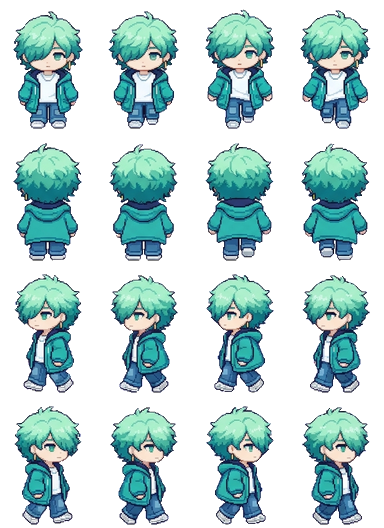
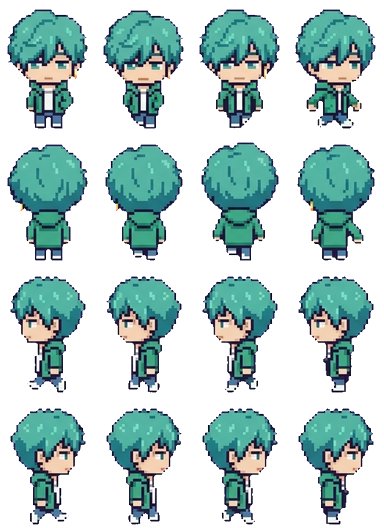
Redraw Ugo Kanato in the shared art style
Claude-Session: https://claude.ai/code/session_01KaPsBYLrtbRfMYNG2xeBCK

diff --git a/docs/app.js b/docs/app.js
@@ -75,7 +75,7 @@ function spr(cat, k, col, sc) {
   return `<div class="clip" style="width:${it[2] * sc}px;height:${it[3] * sc}px;POS"><img class="px" src="assets/decor/${cat}.png" alt="" style="width:${S.sw * sc}px;height:${S.sh * sc}px;margin-left:${-col * S.cw * sc}px;margin-top:${-i * S.ch * sc}px"></div>`;
 }
 const icon = (k, sz) => `<span class="itm" style="width:${sz}px;height:${sz}px"><img class="px" src="assets/ui/items.png" alt="" style="width:${IT.length * sz}px;height:${sz}px;margin-left:${-ITM[k].i * sz}px"></span>`;
-const face = (id, w) => { const s = w / 96; return `<img class="px" src="assets/ch/${id}.webp?v=36" alt="" style="position:absolute;width:${384 * s}px;height:${528 * s}px;left:${-(96 * s - w) / 2}px;top:0;max-width:none">`; };
+const face = (id, w) => { const s = w / 96; return `<img class="px" src="assets/ch/${id}.webp?v=37" alt="" style="position:absolute;width:${384 * s}px;height:${528 * s}px;left:${-(96 * s - w) / 2}px;top:0;max-width:none">`; };
 
 // ---------- 저장 ----------
 let fb = null, user = null, S = null, saveT = null;
@@ -143,7 +143,7 @@ function sleepHTML(id, r, dy) {
   const pos = r.a && r.a[0] === 'bed' ? 'left:3%;bottom:20%' : r.b && r.b[0] === 'bed' ? 'right:3%;bottom:20%' : 'left:calc(50% - 44px);bottom:6%';
   const s = 36 / 96;
   return `<div style="position:absolute;width:88px;height:56px;${pos};z-index:${dy ? 4 : 5};${dy ? `transform:translate(12px,${dy}px)` : ''}"><div style="position:absolute;inset:0;filter:brightness(.22)">
-    <div style="position:absolute;left:11px;top:1px;width:36px;height:50px;overflow:hidden;transform:rotate(-90deg)"><img class="px" src="assets/ch/${id}.webp?v=36" alt="" style="width:${384 * s}px;height:${528 * s}px;max-width:none;margin-top:${-132 * s}px"></div>
+    <div style="position:absolute;left:11px;top:1px;width:36px;height:50px;overflow:hidden;transform:rotate(-90deg)"><img class="px" src="assets/ch/${id}.webp?v=37" alt="" style="width:${384 * s}px;height:${528 * s}px;max-width:none;margin-top:${-132 * s}px"></div>
     <div style="position:absolute;left:19px;top:19px;width:67px;height:29px;border:2px solid var(--ink);border-radius:8px 6px 4px 4px;background:#8ccff5;background-image:repeating-linear-gradient(90deg,transparent 0 10px,rgba(255,255,255,.5) 10px 13px)"></div></div>
     ${dy ? '' : '<span class="emo" style="left:8px;top:-22px;color:#5b6bd6">Z z z</span>'}</div>`;
 }
@@ -153,8 +153,8 @@ function roomHTML(id, o, scale) {
     <div class="floor" style="background-color:${PAL[r.fc][1]};background-image:${tileUrl('floor', r.fl)}"></div>
     ${slot('deco', r.dc, 'left:6%;top:6%')}${slot('furn', r.a, 'left:3%;bottom:20%')}${slot('furn', r.b, 'right:3%;bottom:20%')}${slot('prop', r.pr, 'left:28%;bottom:4%;z-index:2')}
     ${id && o.sleeping && g ? sleepHTML(g, r, -16) : ''}${id && o.sleeping ? sleepHTML(id, r) : ''}${id && o.job ? `<div style="position:absolute;left:50%;top:38%;transform:translateX(-50%);z-index:5;background:#fff;border:3px solid var(--ink);border-radius:10px;padding:6px 10px;font-size:11px;text-align:center;line-height:1.5"><img src="assets/ui/ic_job.png" alt="" style="width:18px;vertical-align:-4px"> ${WORK[id] ? WORK[id][1] : esc(JOB_NAME[id]) + ' 알바 중'}${g ? `<br><small>${esc(nameOf(g))}도 같이</small>` : ''}<br><b id="jobleft">${timeLeft(o.job.until)}</b></div>` : ''}
-    ${id ? `<div class="shadow" id="shd" ${o.sleeping || o.job ? 'style="display:none"' : ''}></div><div class="man" id="man" ${o.sleeping || o.job ? 'style="display:none"' : ''}><img class="px" src="assets/ch/${id}.webp?v=36" alt="${esc(nameOf(id))}"></div><span class="emo" id="emo" hidden></span><span class="mumble" id="mum" hidden></span>` : ''}
-    ${g ? `<div class="shadow" id="gshd" ${hideG}></div><div class="man" id="gman" ${hideG}><img class="px" src="assets/ch/${g}.webp?v=36" alt="${esc(nameOf(g))}"></div><span class="emo" id="gemo" hidden></span><span class="mumble gmum" id="gmum" hidden></span>` : ''}
+    ${id ? `<div class="shadow" id="shd" ${o.sleeping || o.job ? 'style="display:none"' : ''}></div><div class="man" id="man" ${o.sleeping || o.job ? 'style="display:none"' : ''}><img class="px" src="assets/ch/${id}.webp?v=37" alt="${esc(nameOf(id))}"></div><span class="emo" id="emo" hidden></span><span class="mumble" id="mum" hidden></span>` : ''}
+    ${g ? `<div class="shadow" id="gshd" ${hideG}></div><div class="man" id="gman" ${hideG}><img class="px" src="assets/ch/${g}.webp?v=37" alt="${esc(nameOf(g))}"></div><span class="emo" id="gemo" hidden></span><span class="mumble gmum" id="gmum" hidden></span>` : ''}
     ${o.sleeping ? `<div class="night"></div><div class="sleepleft">쿨쿨 · 일어나기까지 <b id="sleepleft">${timeLeft(wakeAt(o)).replace(' 남음', '')}</b></div>` : ''}
   </div>`;
 }
@@ -167,7 +167,7 @@ function meterHTML(o) {
 const ic = (act, img, label, pressed) => `<button class="ic" data-act="${act}" ${pressed ? 'aria-pressed="true"' : ''}><img src="assets/ui/ic_${img}.png?v=2" alt="">${label}</button>`;
 
 let dropStyle = null; const cheat = {};
-const APP_V = 108, COUPONS = { NINOGUYA: 3000 };
+const APP_V = 109, COUPONS = { NINOGUYA: 3000 };
 // 쿠폰 입력 정리: 한글 자판 상태로 친 글자(ㅜㅑㅜㅐ혀ㅛㅁ)도 영어 자판 글자로 바꾸고, 대소문자·띄어쓰기·마침표는 무시해요
 const KEY = { ㄱ: 'r', ㄲ: 'R', ㄴ: 's', ㄷ: 'e', ㄸ: 'E', ㄹ: 'f', ㅁ: 'a', ㅂ: 'q', ㅃ: 'Q', ㅅ: 't', ㅆ: 'T', ㅇ: 'd', ㅈ: 'w', ㅉ: 'W', ㅊ: 'c', ㅋ: 'z', ㅌ: 'x', ㅍ: 'v', ㅎ: 'g',
   ㅏ: 'k', ㅐ: 'o', ㅑ: 'i', ㅒ: 'O', ㅓ: 'j', ㅔ: 'p', ㅕ: 'u', ㅖ: 'P', ㅗ: 'h', ㅘ: 'hk', ㅙ: 'ho', ㅚ: 'hl', ㅛ: 'y', ㅜ: 'n', ㅝ: 'nj', ㅞ: 'np', ㅟ: 'nl', ㅠ: 'b', ㅡ: 'm', ㅢ: 'ml', ㅣ: 'l',
@@ -407,7 +407,7 @@ function startTrip(k) {
   if (tg) lines[1] = `${nameOf(tg)}: ${withHim(sub(pick(GLX(tg).trip), o, c.n), tg)}`;
   const n = (FR[id] || [4, 4, 4, 4])[3], el = document.createElement('div'); el.className = 'tripview';
   el.innerHTML = `<div class="tsay"> </div><div class="tstage" style="background-image:url(assets/travel/${k}.png?v=2)"><div class="tplace">${esc(c.n)}</div>
-    <div class="twalker"><img class="px" src="assets/ch/${id}.webp?v=36" alt=""></div>${tg ? `<div class="twalker tgirl"><img class="px" src="assets/ch/${tg}.webp?v=36" alt=""></div>` : ''}<span class="emo tjoy">♪</span></div>
+    <div class="twalker"><img class="px" src="assets/ch/${id}.webp?v=37" alt=""></div>${tg ? `<div class="twalker tgirl"><img class="px" src="assets/ch/${tg}.webp?v=37" alt=""></div>` : ''}<span class="emo tjoy">♪</span></div>
     <div class="tbar"><i></i></div><button class="btn white tskip" data-tskip="1">바로 돌아오기</button>`;
   document.body.appendChild(el);
   const gimg = el.querySelector('.tgirl img'), gn = tg ? (FR[tg] || [4, 4, 4, 4])[3] : 1;
@@ -636,7 +636,7 @@ setInterval(() => { if (S && user) { tickTime(); save(); } }, 60000);
     if (nv > APP_V && !location.search.includes('u=' + nv)) { location.replace(location.pathname + '?u=' + nv); return; }
   } catch { }
   app.innerHTML = '<div class="start"><div class="egg"><div class="scr"></div></div><div class="note">불러오는 중....</div></div>';
-  const [c, t, f, it, mu, ct, tv, gl, sts] = await Promise.all(['data/chars.json', 'data/talk.json', 'data/frames.json', 'data/items.json', 'data/mumble.json', 'data/countries.json', 'data/travel.json', 'data/girls.json', 'data/sets.json'].map(u => fetch(u + '?v=108').then(r => r.ok ? r.json() : {})));
+  const [c, t, f, it, mu, ct, tv, gl, sts] = await Promise.all(['data/chars.json', 'data/talk.json', 'data/frames.json', 'data/items.json', 'data/mumble.json', 'data/countries.json', 'data/travel.json', 'data/girls.json', 'data/sets.json'].map(u => fetch(u + '?v=109').then(r => r.ok ? r.json() : {})));
   CH = c; CHM = Object.fromEntries(c.map(x => [x.id, x])); TALK = t; FR = f; IT = it; ITM = Object.fromEntries(it.map(x => [x.k, x])); MUM = mu; CTRY = ct; TRV = tv; GL = Array.isArray(gl) ? gl : []; SETS = Array.isArray(sts) ? sts : []; GLM = Object.fromEntries(GL.map(x => [x.id, x]));
   try { await initFirebase(); } catch (e) { console.warn('Firebase 연결 실패, 기기 저장으로', e); fb = null; }
   if (fb) {

diff --git a/docs/index.html b/docs/index.html
@@ -18,6 +18,6 @@
 <main id="app" aria-live="polite"></main>
 <div id="toast" role="status" hidden></div>
 <script src="firebase-config.js?v=3"></script>
-<script type="module" src="app.js?v=108"></script>
+<script type="module" src="app.js?v=109"></script>
 </body>
 </html>
